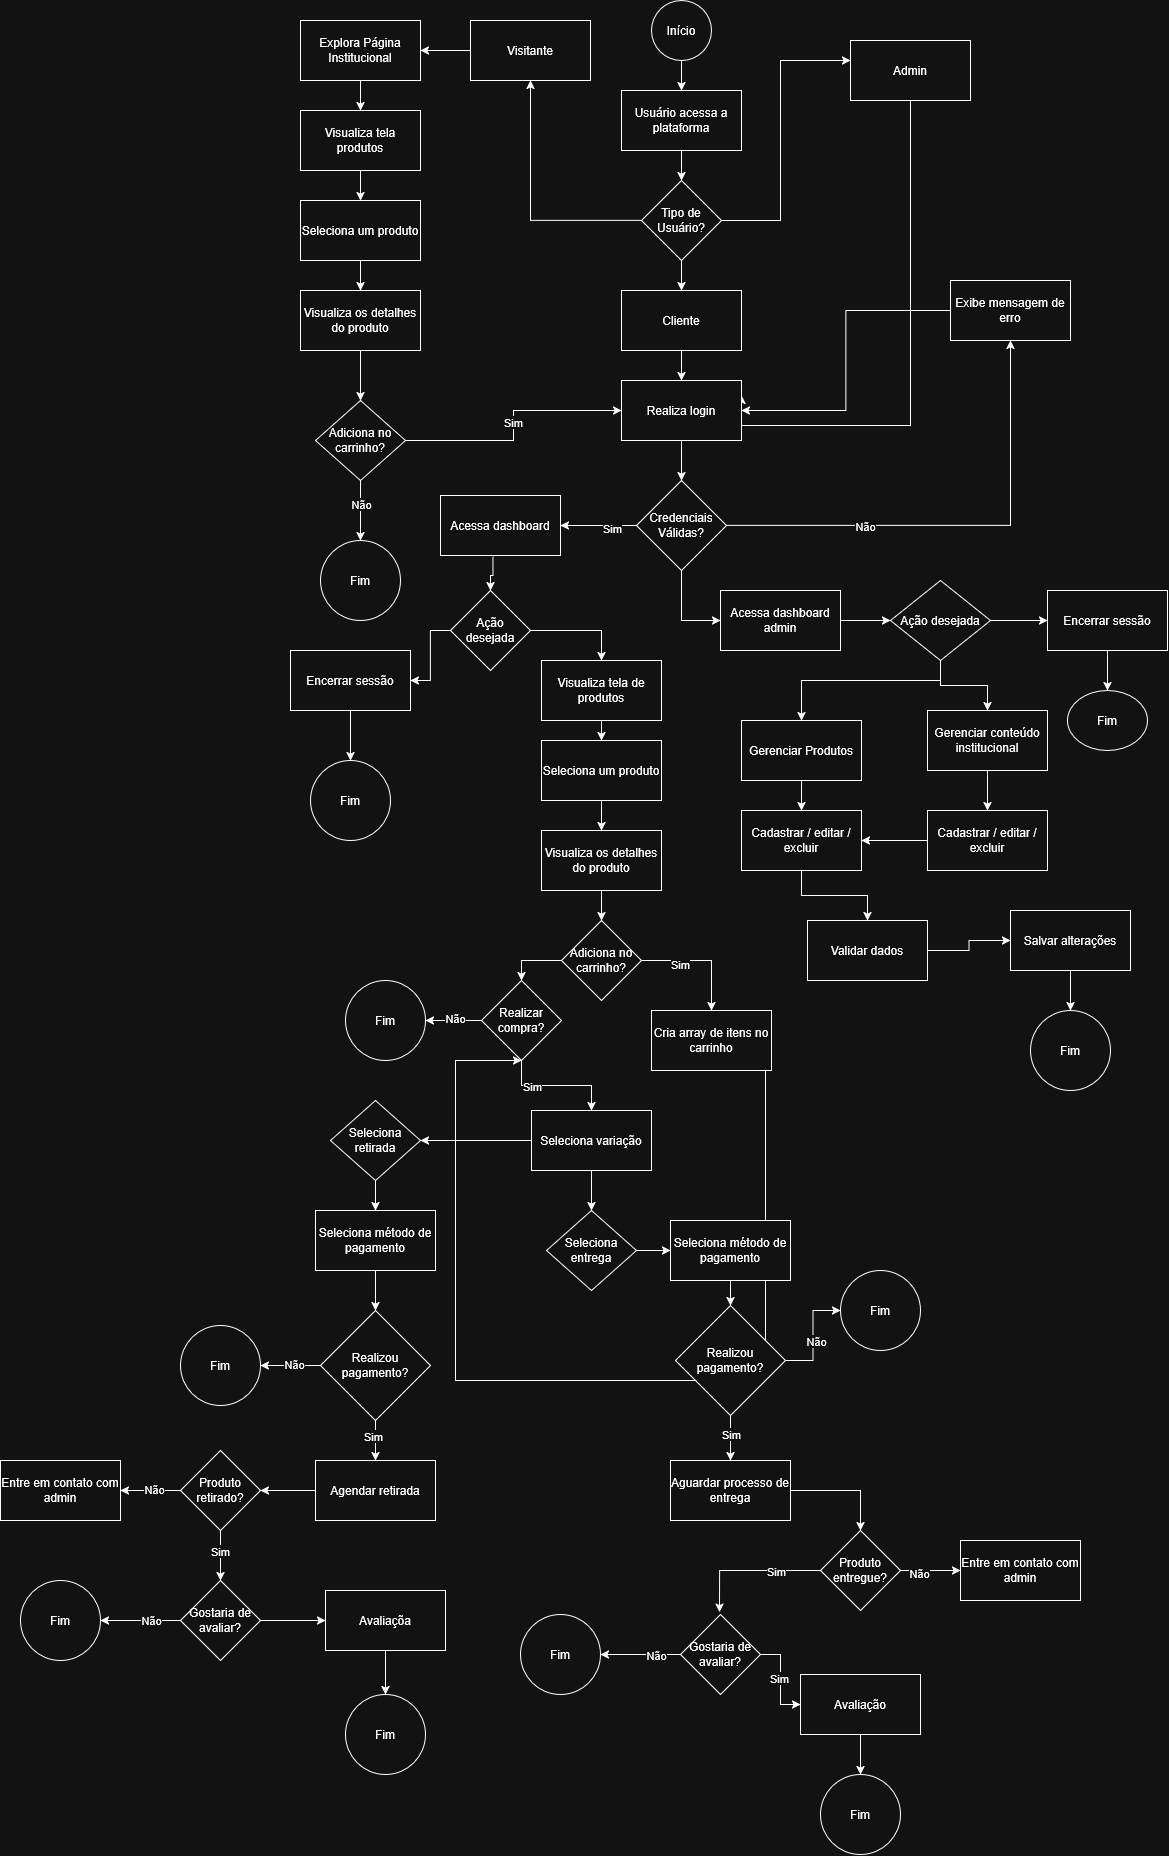
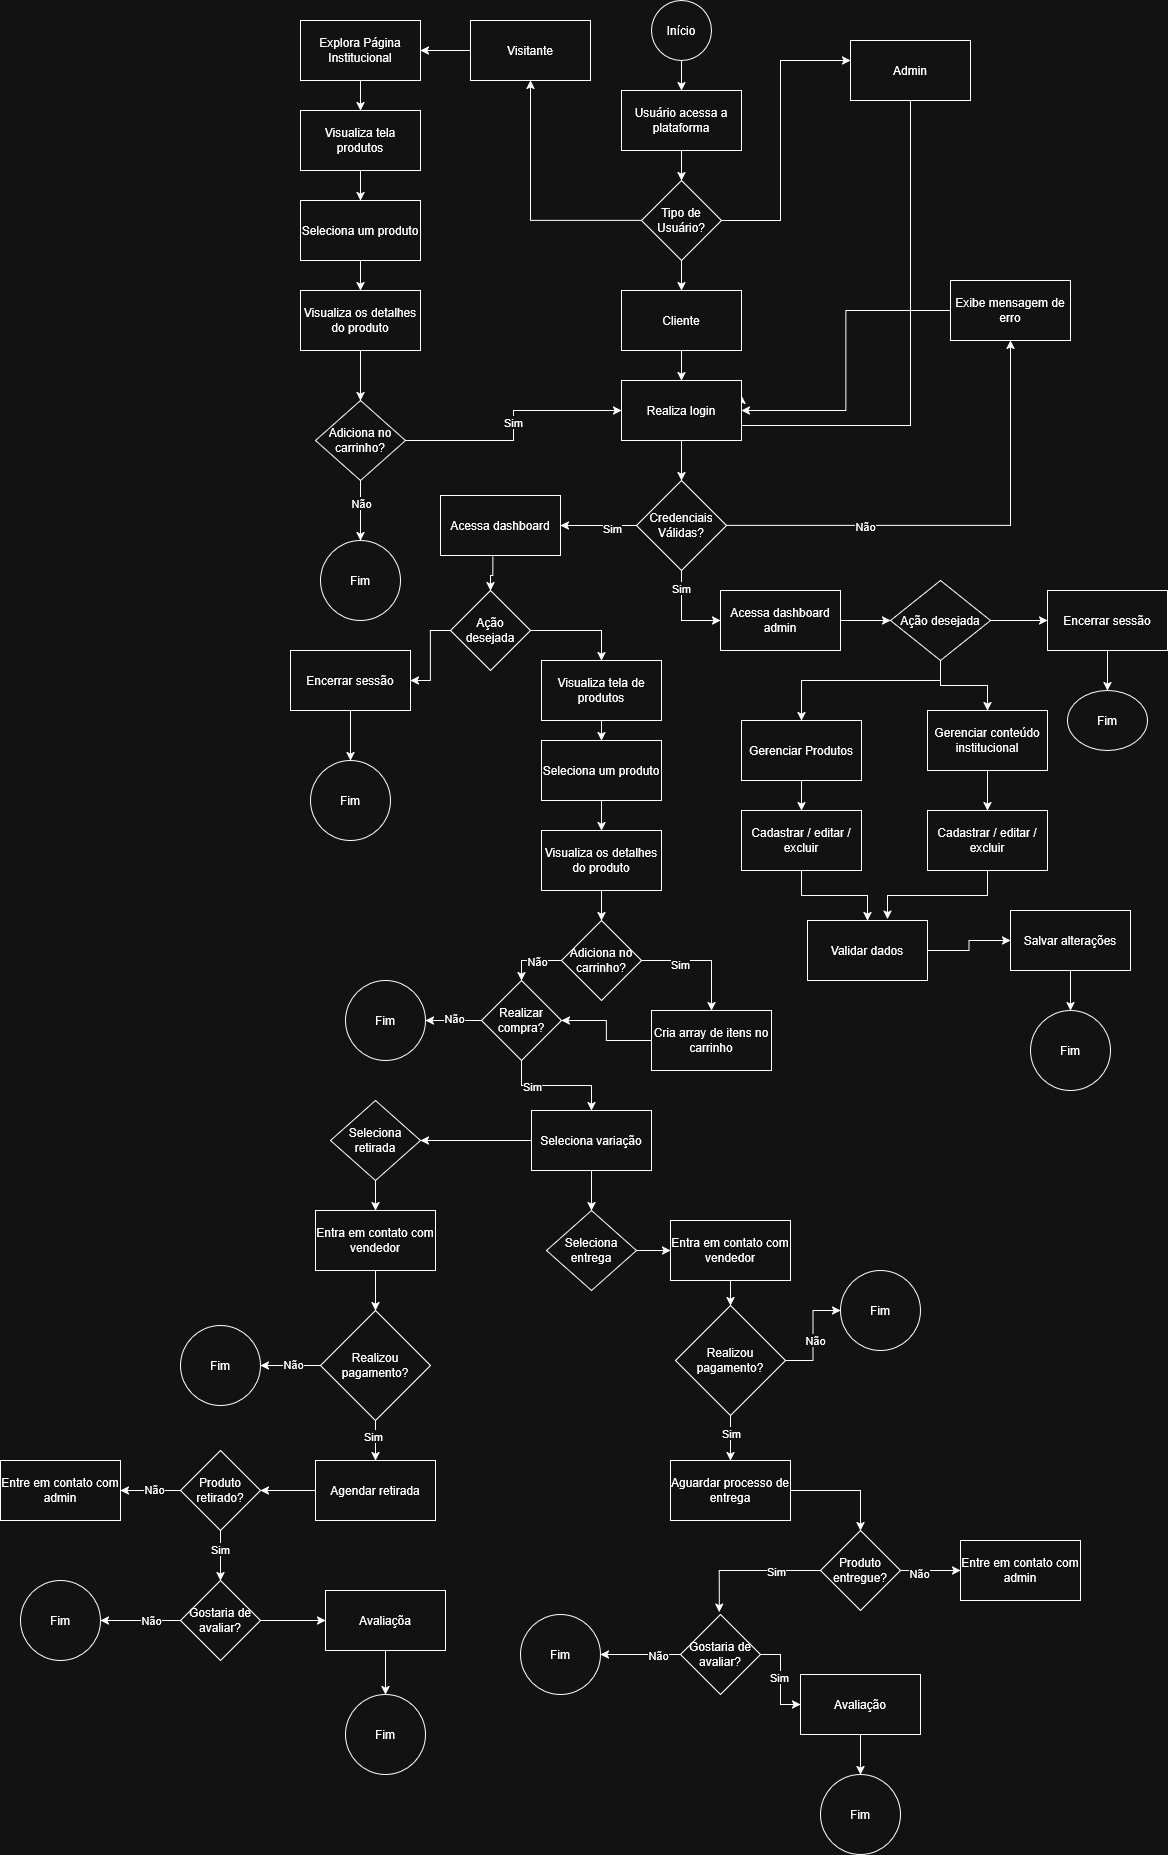
refactor: refactoring API and folders

diff --git a/adminService/src/images/image.service.ts b/adminService/src/images/image.service.ts
@@ -74,12 +74,10 @@ export class ImageService {
 
         try {
 
-            // Atualiza altText
             if (updateImageDto.altText !== undefined) {
                 image.altText = updateImageDto.altText;
             }
 
-            // Atualiza imagem se existir arquivo
             if (file) {
 
                 if (!file.filename || !file.path) {
@@ -97,7 +95,6 @@ export class ImageService {
 
             await image.save();
 
-            // Remove imagem antiga SOMENTE após salvar
             if (
                 file &&
                 oldImageUrl &&
@@ -110,7 +107,6 @@ export class ImageService {
 
         } catch (err) {
 
-            // Remove nova imagem caso erro
             if (file?.path) {
                 try {
                     await removeFileByUrl(

diff --git a/adminService/src/main.ts b/adminService/src/main.ts
@@ -8,6 +8,8 @@ import { MulterExceptionFilter } from './images/filters/multer-exception.filter'
 async function bootstrap() {
   const app = await NestFactory.create<NestExpressApplication>(AppModule);
 
+  app.setGlobalPrefix('api');
+
   app.enableCors({
     origin: true,
     methods: ['GET', 'POST', 'PUT', 'DELETE', 'PATCH'],
@@ -15,7 +17,7 @@ async function bootstrap() {
   });
 
   const uploadDir = join(process.cwd(), 'uploads');
-  app.useStaticAssets(join(__dirname, '..', uploadDir), {
+  app.useStaticAssets(uploadDir, {
     prefix: '/uploads',
   });
 

diff --git a/README.md b/README.md
@@ -71,11 +71,14 @@ O tráfego é centralizado pelo Nginx, que distribui as requisições para os mi
 
 ## Backend
 
-- **Controllers:** responsáveis por receber e responder requisições HTTP.
+- **Controllers:** responsáveis por receber e responder requisições HTTP e definição de rotas da aplicação.
 - **Services:** responsáveis pela implementação das regras de negócio.
-- **Repositories/DAO:** responsáveis pela comunicação com o banco de dados.
-- **Middleware:** camada responsável pela comunicação entre diferentes serviços e gerenciamento de autenticação.
-- **Routes:** definição de rotas da aplicação.
+- **Models:** responsáveis pela comunicação com o banco de dados.
+- **Module:** unidade fundamental de organização do código. Ele atua como um contêiner que agrupa componentes com um domínio ou responsabilidade em comum.
+- **DTO:** usado para transportar dados entre diferentes camadas de um sistema ou entre microsserviços sem expor a estrutura interna do banco de dados.
+- **Auth:** camada responsável pela comunicação entre diferentes serviços e gerenciamento de autenticação.
+- **Guards:** função para apenas usuários administradores ter acesso a algumas rotas.
+- **Filters:** serve para interceptar erros lançados pelo Multer durante uploads de arquivos e retornar respostas mais amigáveis e padronizadas. 
 
 ### Exemplo de endpoints
 
@@ -83,6 +86,7 @@ O tráfego é centralizado pelo Nginx, que distribui as requisições para os mi
 POST /api/products
 GET /api/products
 PUT /api/products/:id
+PATCH /api/images/:id
 DELETE /api/products/:id
 ```
 